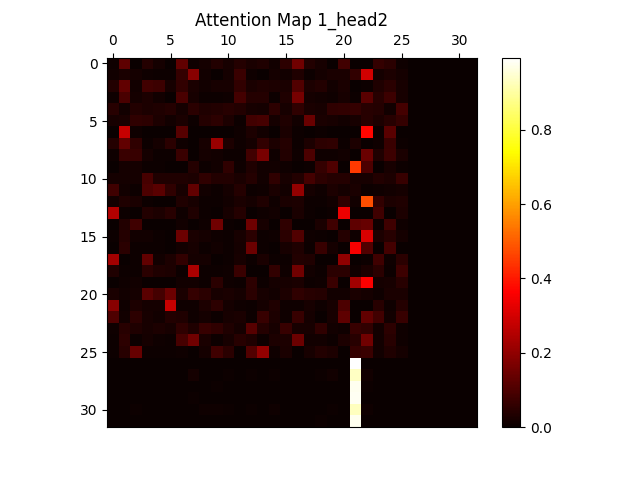
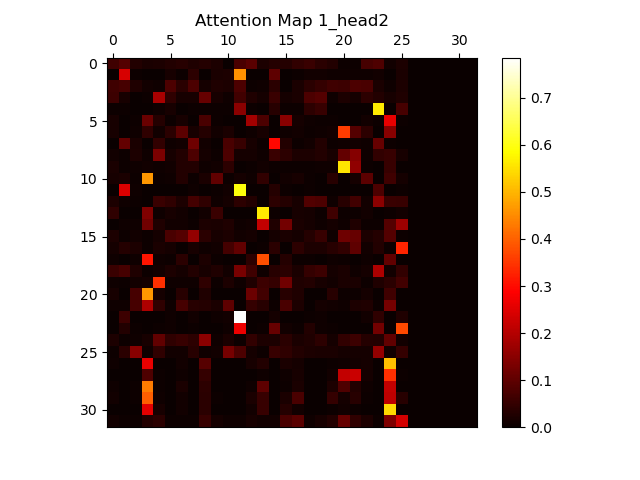
home

diff --git a/main.py b/main.py
@@ -8,7 +8,7 @@ import argparse
 
 from tokenizer import SimpleTokenizer
 from dataset import SpeechesClassificationDataset, LanguageModelingDataset
-from transformer import TransformerEncoder #, TransformerDecoder, TransformerClassifier
+from transformer import TransformerEncoder, TransformerDecoder
 from utilities import Utilities
 seed = 42
 
@@ -39,6 +39,12 @@ epochs_CLS = 15 # epochs for classifier training
 
 def count_parameters(model):
     return sum(p.numel() for p in model.parameters() if p.requires_grad)
+
+# Function to create target mask for the decoder (prevents peeking at future tokens)
+def create_target_mask(seq):
+    seq_len = seq.size(1)
+    mask = torch.tril(torch.ones((seq_len, seq_len), device=seq.device)).unsqueeze(0).unsqueeze(0)
+    return mask  # Shape: (1, 1, seq_len, seq_len)
 
 class TransformerClassificationModel(nn.Module):
     def __init__(self, encoder, classifier):
@@ -191,16 +197,43 @@ def main(part):
             lmtrainText = f.read()
         train_LM_dataset = LanguageModelingDataset(tokenizer, lmtrainText,  block_size)
         train_LM_loader = DataLoader(train_LM_dataset, batch_size=batch_size, shuffle=True)
-
-        # for the classification  task, you will train for a fixed number of epochs like this:
-
-
+        vocab_size = tokenizer.vocab_size
+        decoder = TransformerDecoder(vocab_size=vocab_size, embed_size=n_embd, num_layers=n_layer, num_heads=n_head, 
+                                     ff_hidden_dim=n_hidden, dropout=0.1, max_length=block_size).to(device)
+        optimizer = torch.optim.Adam(decoder.parameters(), lr=learning_rate)
+        criterion = nn.CrossEntropyLoss()
+        print("Starting decoder pretraining on language modeling task...")
+        train_losses = []
         # for the language modeling task, you will iterate over the training data for a fixed number of iterations like this:
         for i, (xb, yb) in enumerate(train_LM_loader):
             if i >= max_iters:
                 break
+            # Move data to device
             xb, yb = xb.to(device), yb.to(device)
-            # LM training code here
+
+            # Generate target mask for the current batch
+            trg_mask = create_target_mask(xb)
+
+            # Forward pass through the model
+            outputs = model(xb, trg_mask=trg_mask)  # Shape: (batch_size, seq_length, vocab_size)
+
+            # Reshape outputs and targets for loss calculation
+            loss = criterion(outputs.view(-1, vocab_size), yb.view(-1))
+
+            # Backpropagation
+            optimizer.zero_grad()
+            loss.backward()
+            optimizer.step()
+
+            train_losses.append(loss.item())
+
+            # Print training progress and evaluate perplexity at intervals
+            if (i + 1) % eval_interval == 0 or i == max_iters - 1:
+                avg_loss = sum(train_losses[-eval_interval:]) / len(train_losses[-eval_interval:])
+                perplexity = torch.exp(torch.tensor(avg_loss))
+                print(f"Iteration {i + 1}/{max_iters} - Training Loss: {avg_loss:.4f} - Perplexity: {perplexity:.2f}")
+
+        print("Training complete.")
 
     
 
